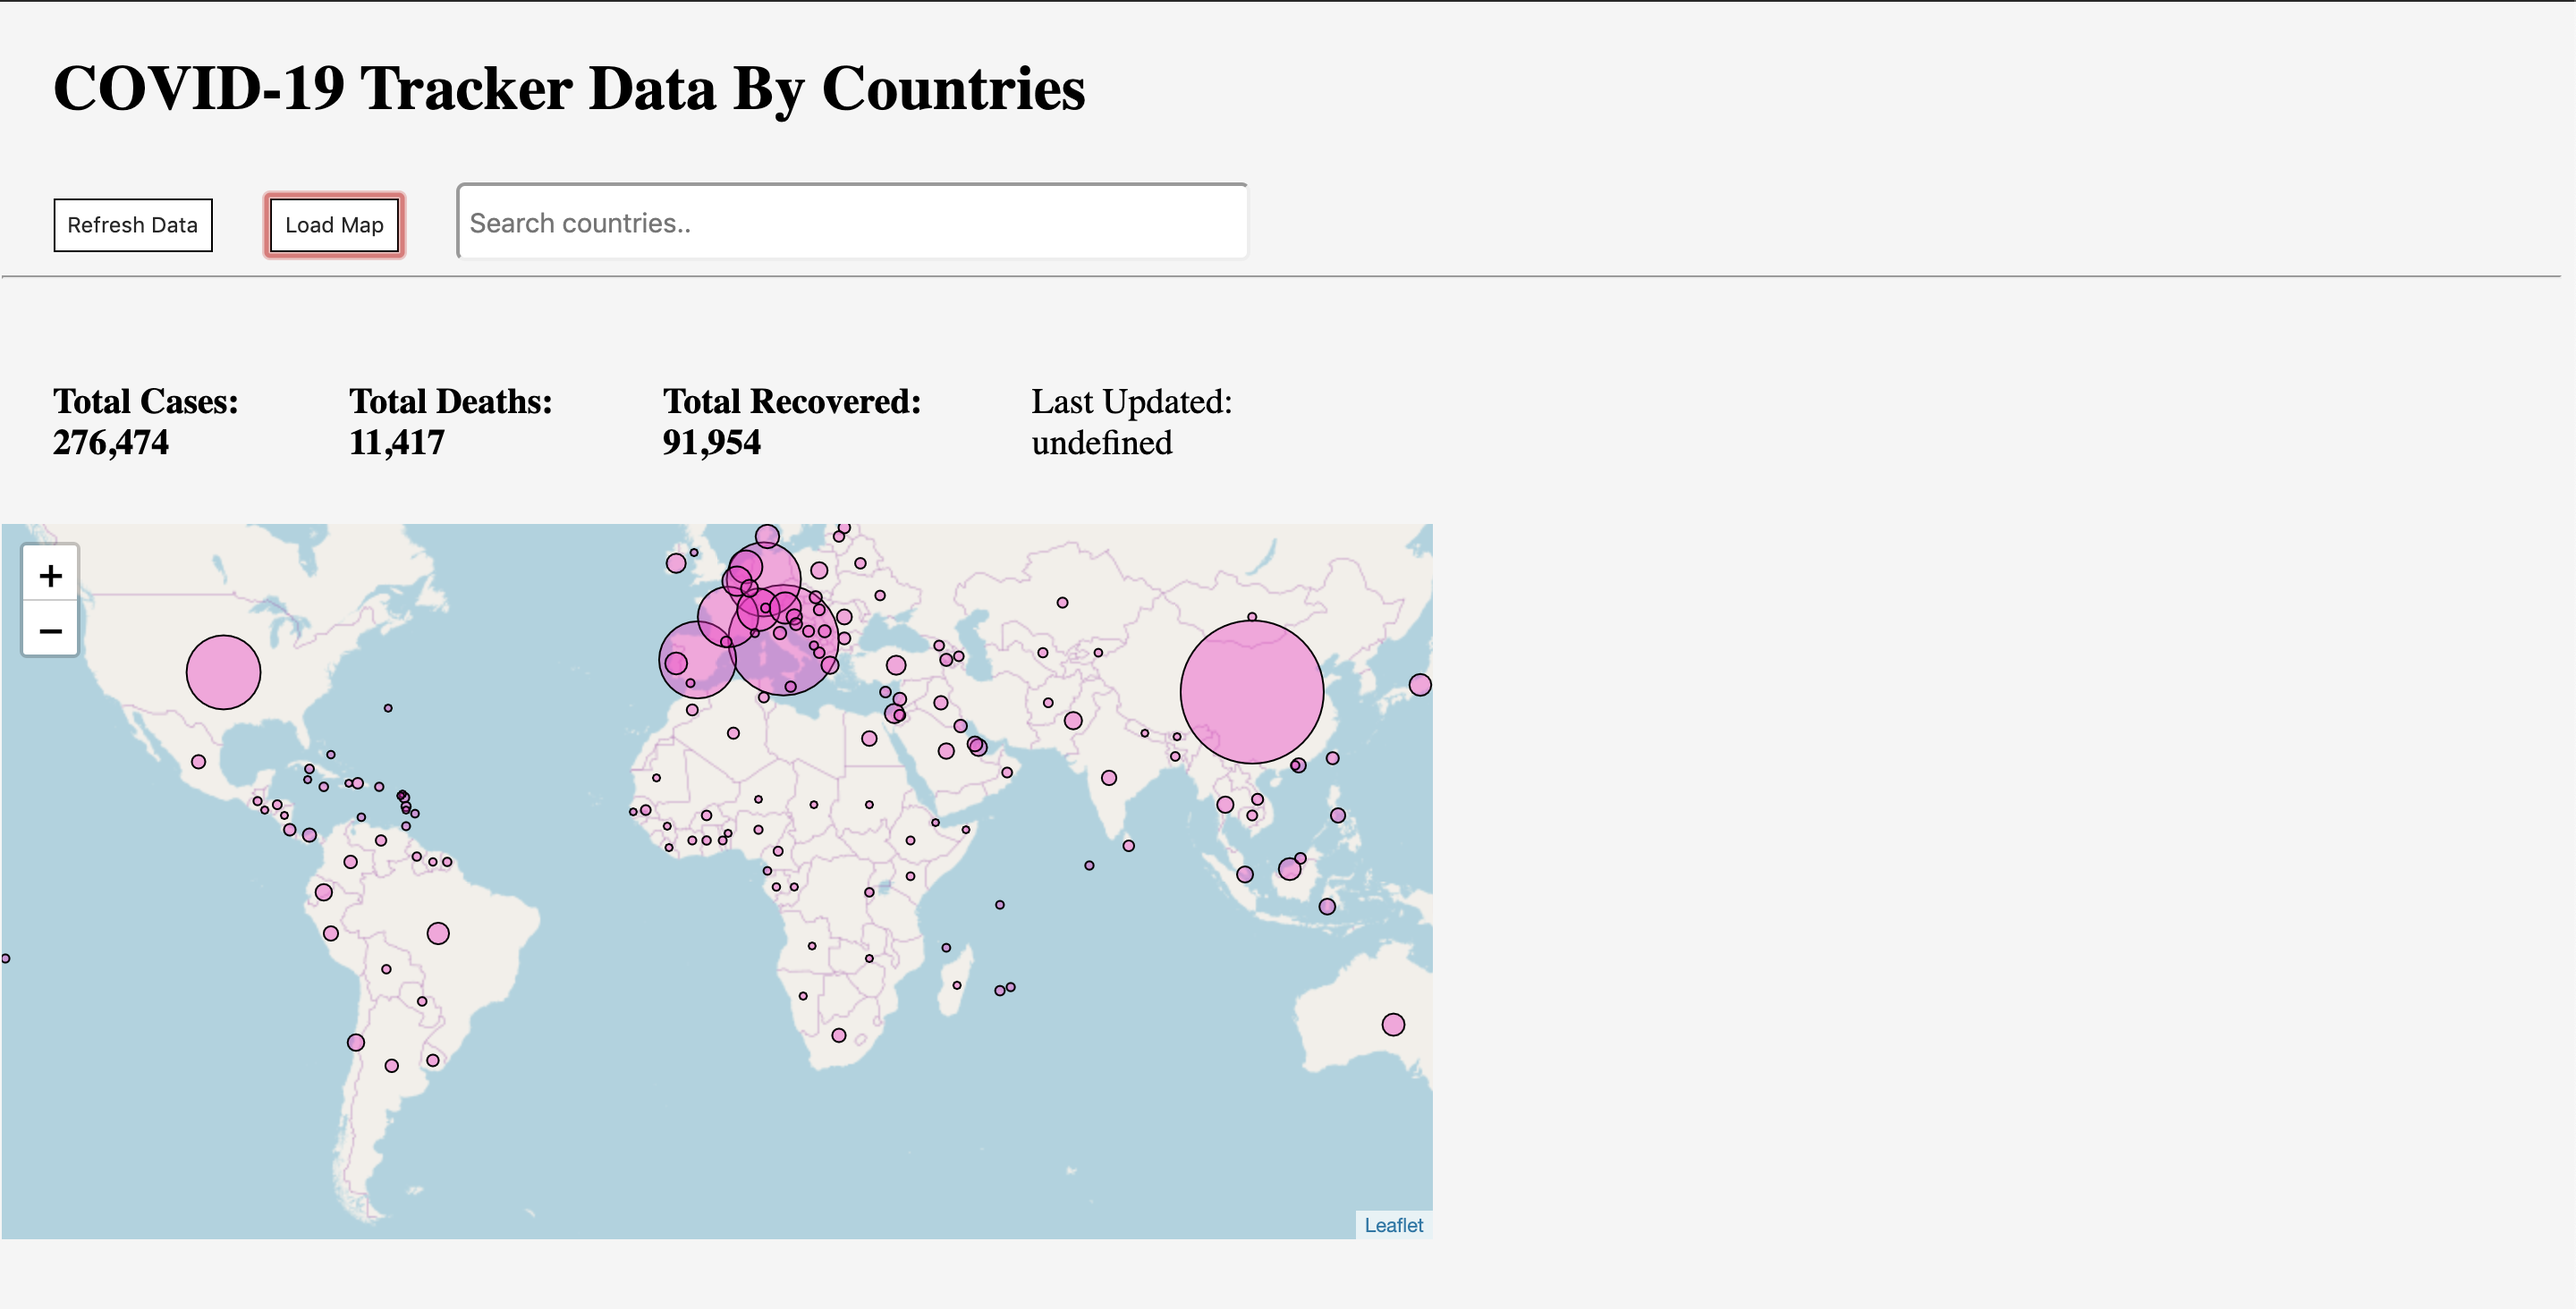
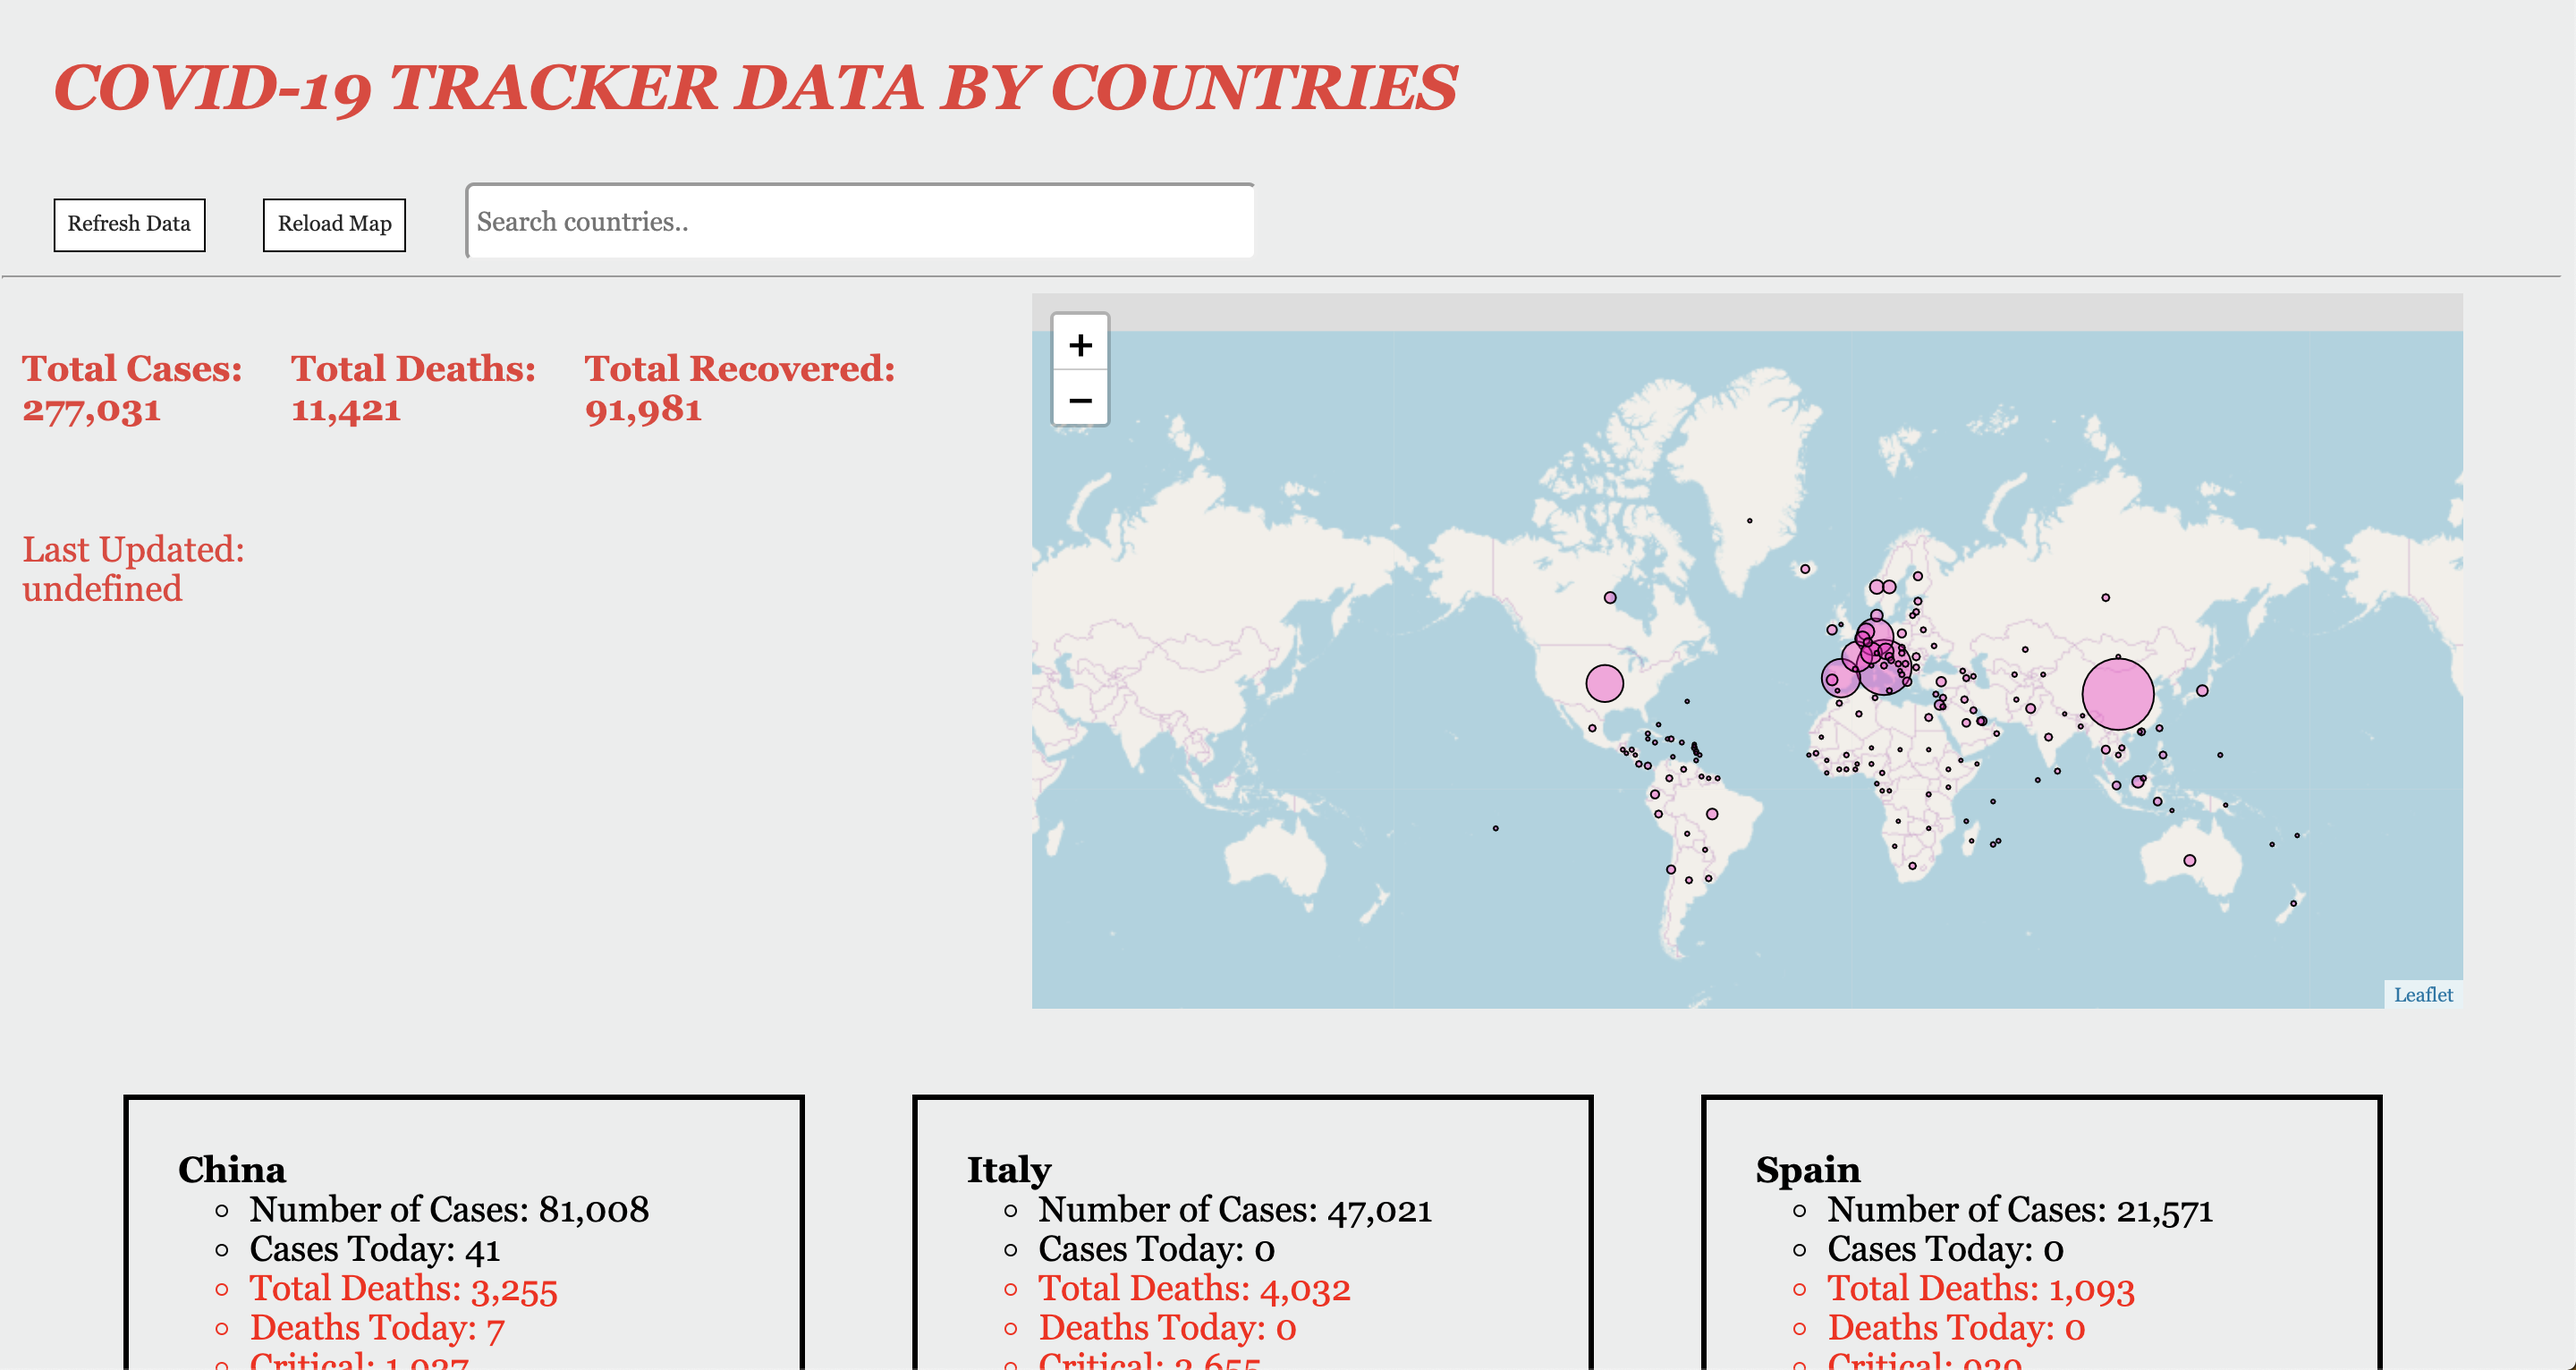
added some styling

diff --git a/index.html b/index.html
@@ -25,6 +25,7 @@
       <input id="searchbar" onkeyup="search_country()" type="text" name="search" placeholder="Search countries..">
       <hr>
       <div id="main" class="top"></div>
+      <!-- <button></button> -->
   <div id= "canvasContainer" class="top" ></div>
   <div id="response">
     <ul id="countriesData"></ul>

diff --git a/src/index.js b/src/index.js
@@ -61,4 +61,4 @@ function getData() {
 
 }
 
-setInterval(getData, 1000);
+getData();
